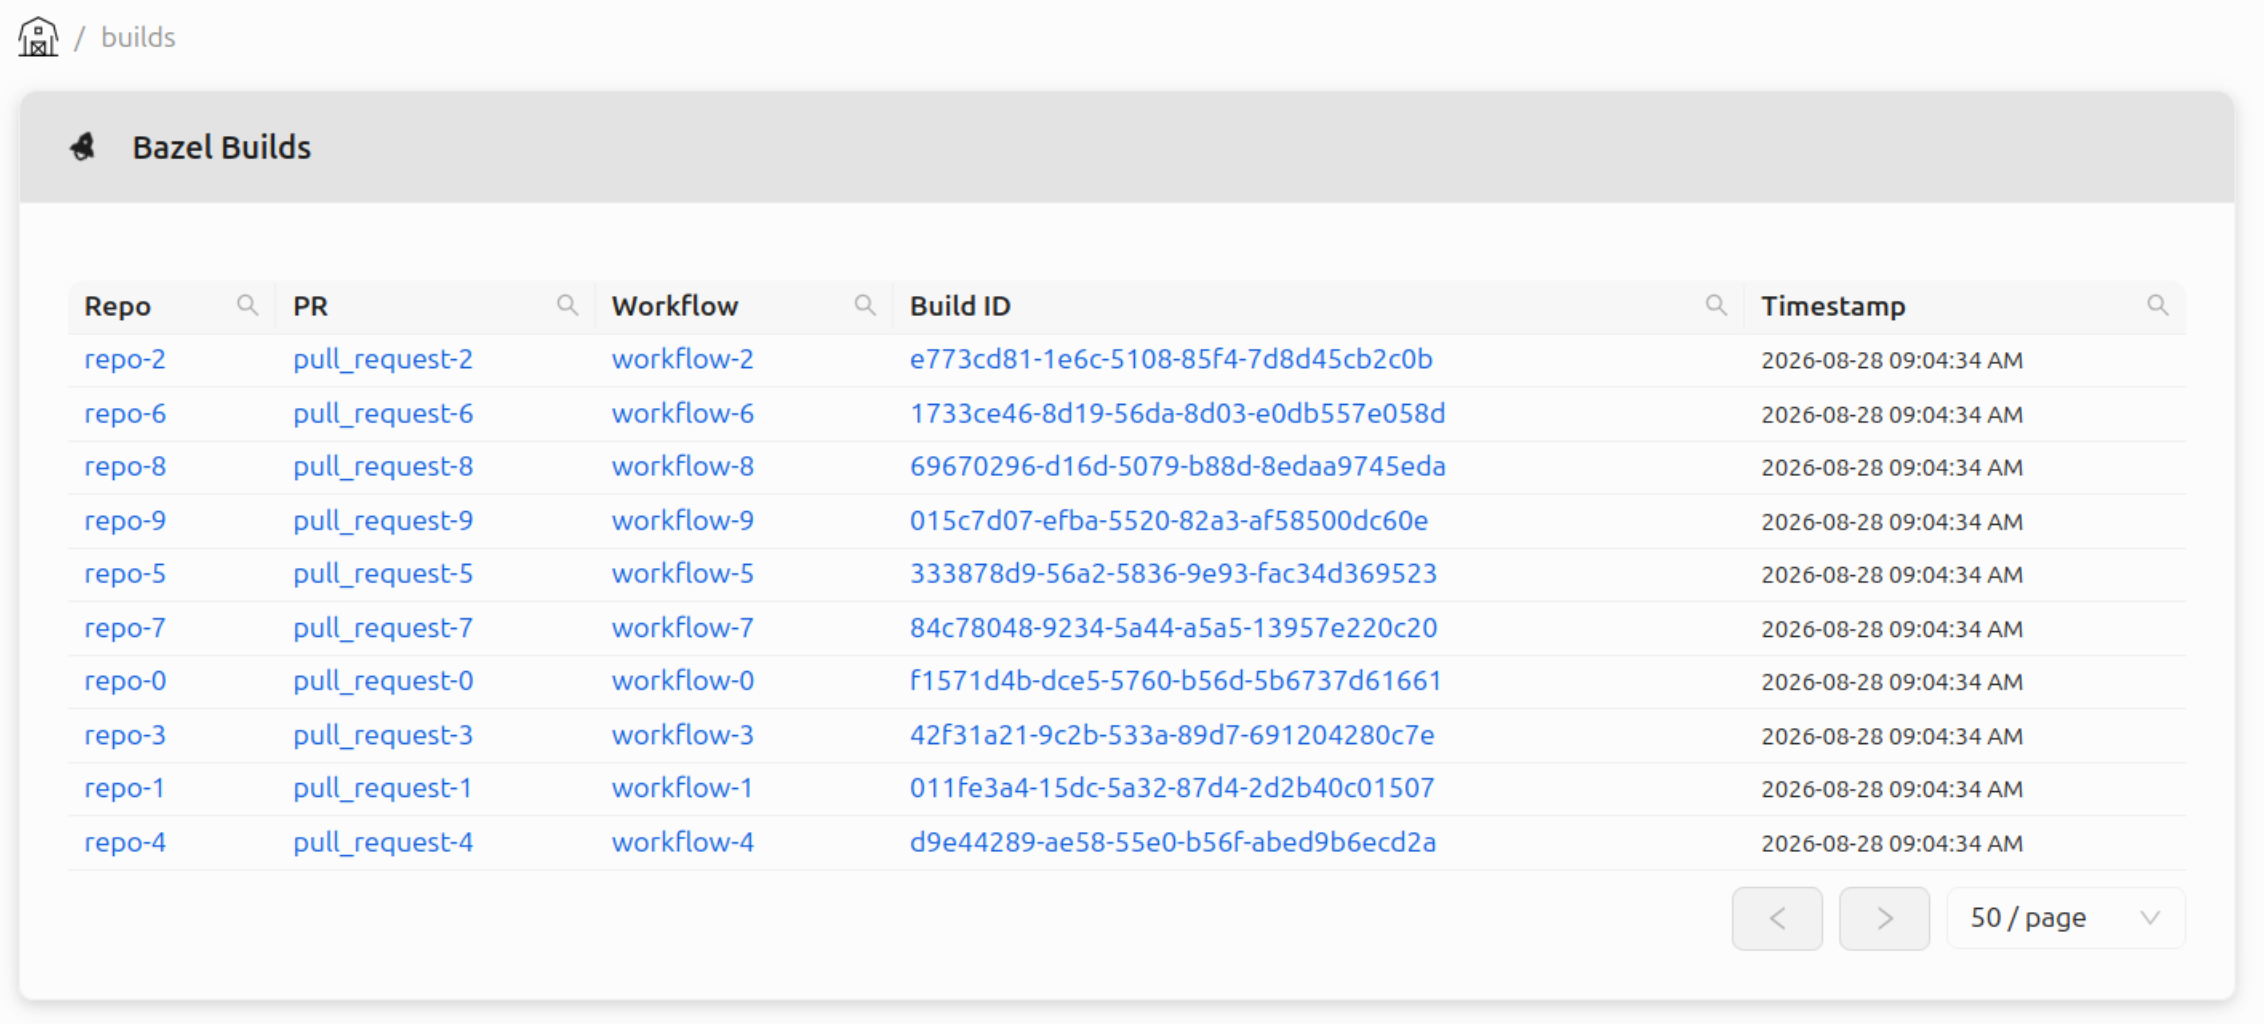
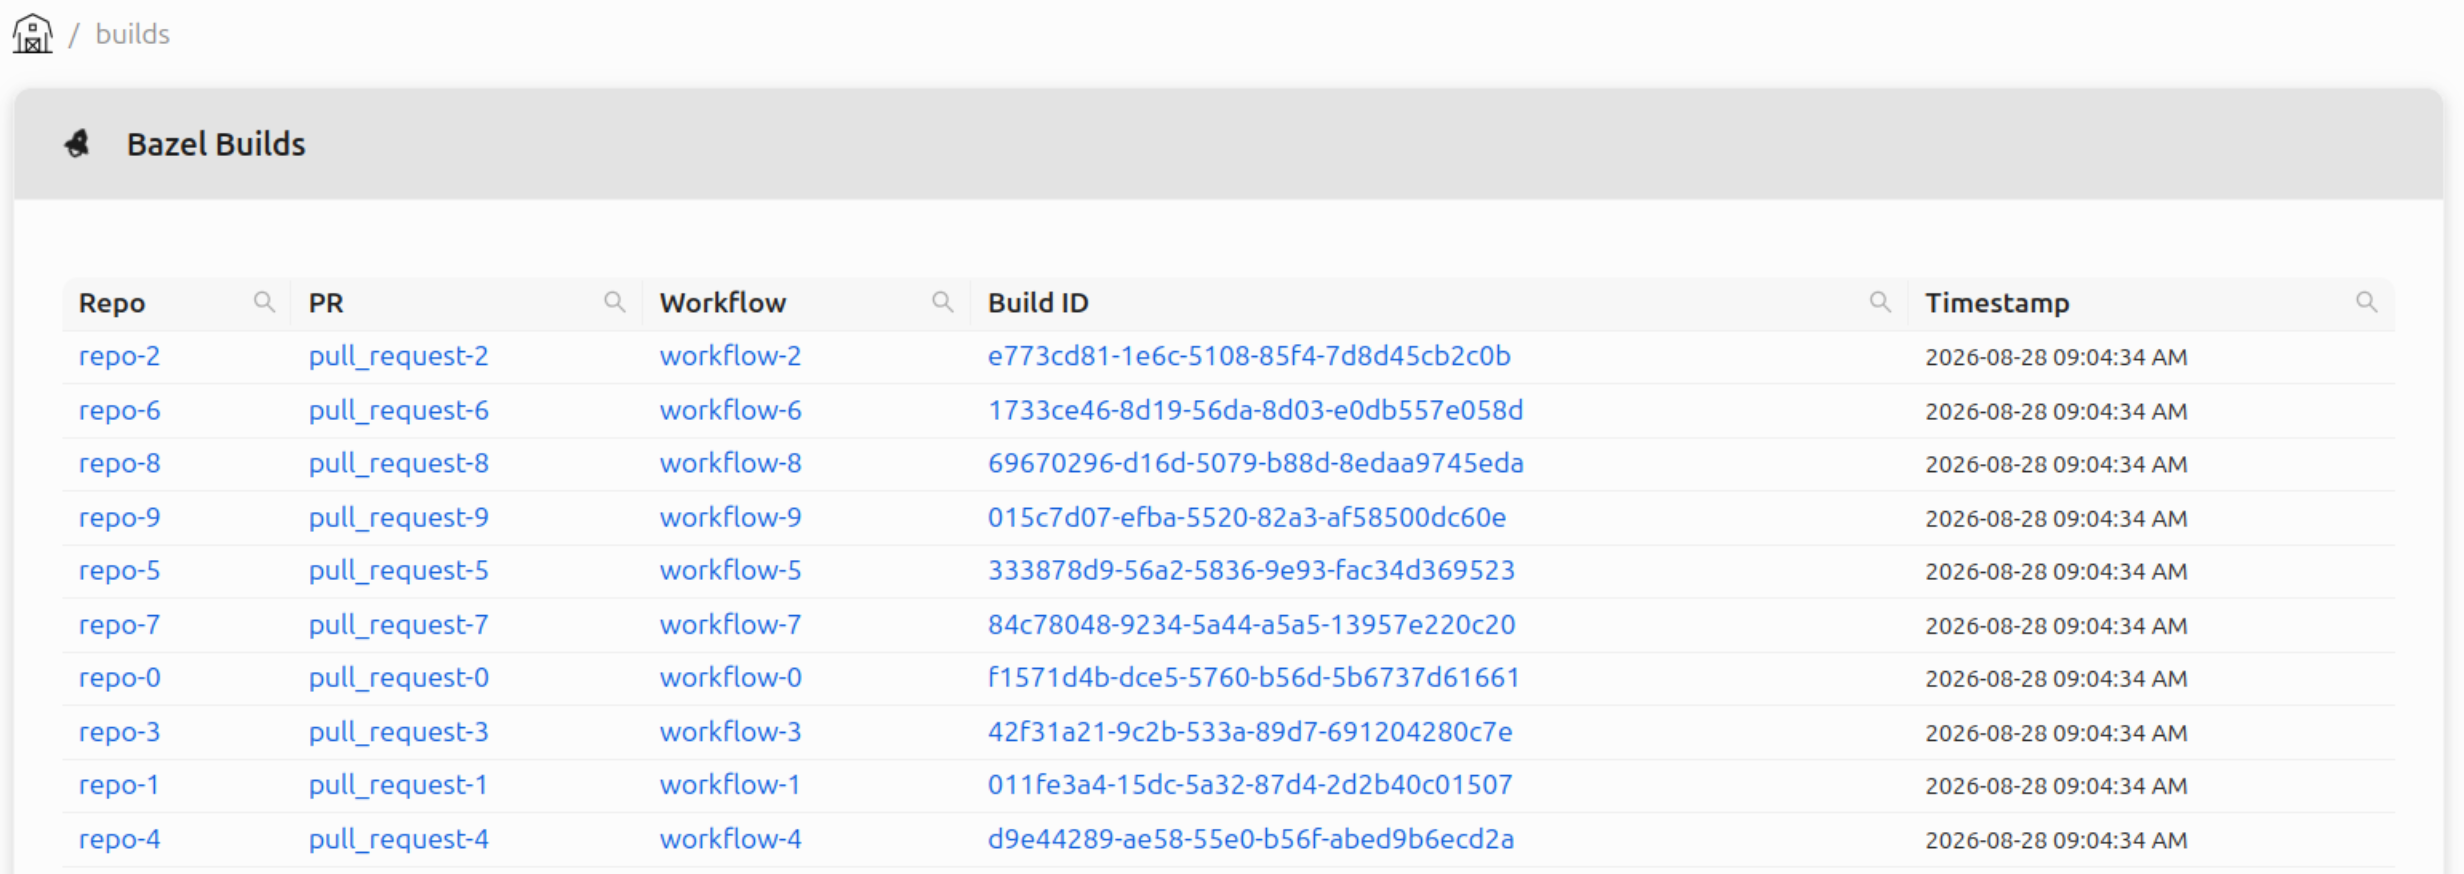
wip

diff --git a/blog/2026-08-19-bb-portal/2026-08-19-bb-portal.md b/blog/2026-08-19-bb-portal/2026-08-19-bb-portal.md
@@ -24,7 +24,7 @@ tests, and targets; the storage daemon grants information
 about the Action Cache (AC) and Content Addressable Storage (CAS);
 the scheduler sends information about workers and execution status.
 
-The portal uses instance names to determine what a user can see. ***TODO: Expand.***
+***TODO: Web authentication***
 
 An example setup in of Buildbarn with the portal can be found in [bb-deployments](https://github.com/buildbarn/bb-deployments/):
 
@@ -34,48 +34,61 @@ An example setup in of Buildbarn with the portal can be found in [bb-deployments
 
 BEP event data can be retrieved two ways: either from an uploaded file,
 or as a stream from Bazel with its [Build Event Service](https://bazel.build/remote/bep#build-event-service)
-(BES) protocol, which are essentially gRPC encoded BEP events.
-The portal incrementally is incrementally updated as it
-retrieves and processes the stream. ***TODO: Rewrite***
+(BES) protocol, which essentially consists of gRPC encoded BEP events.
+
+***TODO: Authentication (web app)***
 
 ### Builds
 
-The portal includes a table of all builds. The table columns includes
-a build ID and timestamp by default, but can be extended as part of the
-portal configuration to suit different CI systems. The build details page
-includes a table of all of the build's invocations, and visualizes
-them in a timeline. The invocation table columns are also configurable,
-as the build table columns. The bb-portal repository includes example
-configurations for Github Actions, Gitlab, and Semaphore.
+A BB Portal build is a collection of invocations, grouped my metadata
+collected from the executing machine. This is useful when running
+Bazel on a CI runner, as the build can be associated with a specific
+repository, pull request, or other information pertaining to what
+triggered the jobs. The information is often fetched from the
+machine's environment variables. The metadata extraction is
+configurable to suit different CI systems. The BB Portal repository
+includes example configurations for Github Actions, Gitlab,
+and Semaphore.
 
 Below is an example view of the builds table using the columns
 "Repo", "PR", and "Workflow" from the Github Actions configuration.
 
 ![builds](./builds-table.png)
 
+***TODO: Build details***
+
 ### Invocations
 
-***TODO: Invocation overview***
-
-An invocation contains information relating to a single
-Bazel command, such as `build` or `test`.
+An invocation contains information relating to a single Bazel
+command, such as `run`, `build`, or `test`. The BEP events sent
+to the portal are processed and saved to the portal's database.
+If authentication is configured for the BES service, the user
+responsible for the invocation can be saved to the database
+and will then be linked to the invocation. The authentication
+metadata extraction is configurable.
 
 ![invocations-table](./invocations-table.png)
+
+Each invocation in the portal stores information from the BEP events
+such as the command log, targets, action cache and timing metrics, and more.
+Similarly to a build, an invocation can be associated with metadata
+extracted from the machine running the Bazel command. ***TODO: Rewrite***
+
 ![invocation-details](./invocation-details.png)
 
-* Associated user
-* Logs
-* Metrics (Action Cache Overview is getting a rework?)
-* Tests (if any)
-* Command line
-* Configurable Source control
-* Configurable build tags
+### Tests (***TODO***)
+
+![builds](./tests-table.png)
+
+### Targets (***TODO?***)
 
 ## Action Cache & Content Addressable Storage
 
 The bb-browser has been integrated into the portal, meaning
 objects in the AC and CAS can be fetched and displayed.
 The portal has almost full feature parity, which is the goal.
+
+***TODO: Authentication and authorization (instance names)***
 
 ## Scheduler
 
@@ -88,13 +101,6 @@ The portal has almost full feature parity, which is the goal.
 * List builds: configurable table
 * Build details: Invocation timeline, invocations table
 
-## Invocations viewer
-
-* Instance name
-* List invocations
-* User view
-* Invocation details: 
-
 ## Tests
 
 * List tests: inline invocation history
@@ -104,3 +110,4 @@ The portal has almost full feature parity, which is the goal.
 
 * Prometheus metrics
 * Tracing
+* Completed actions logger
